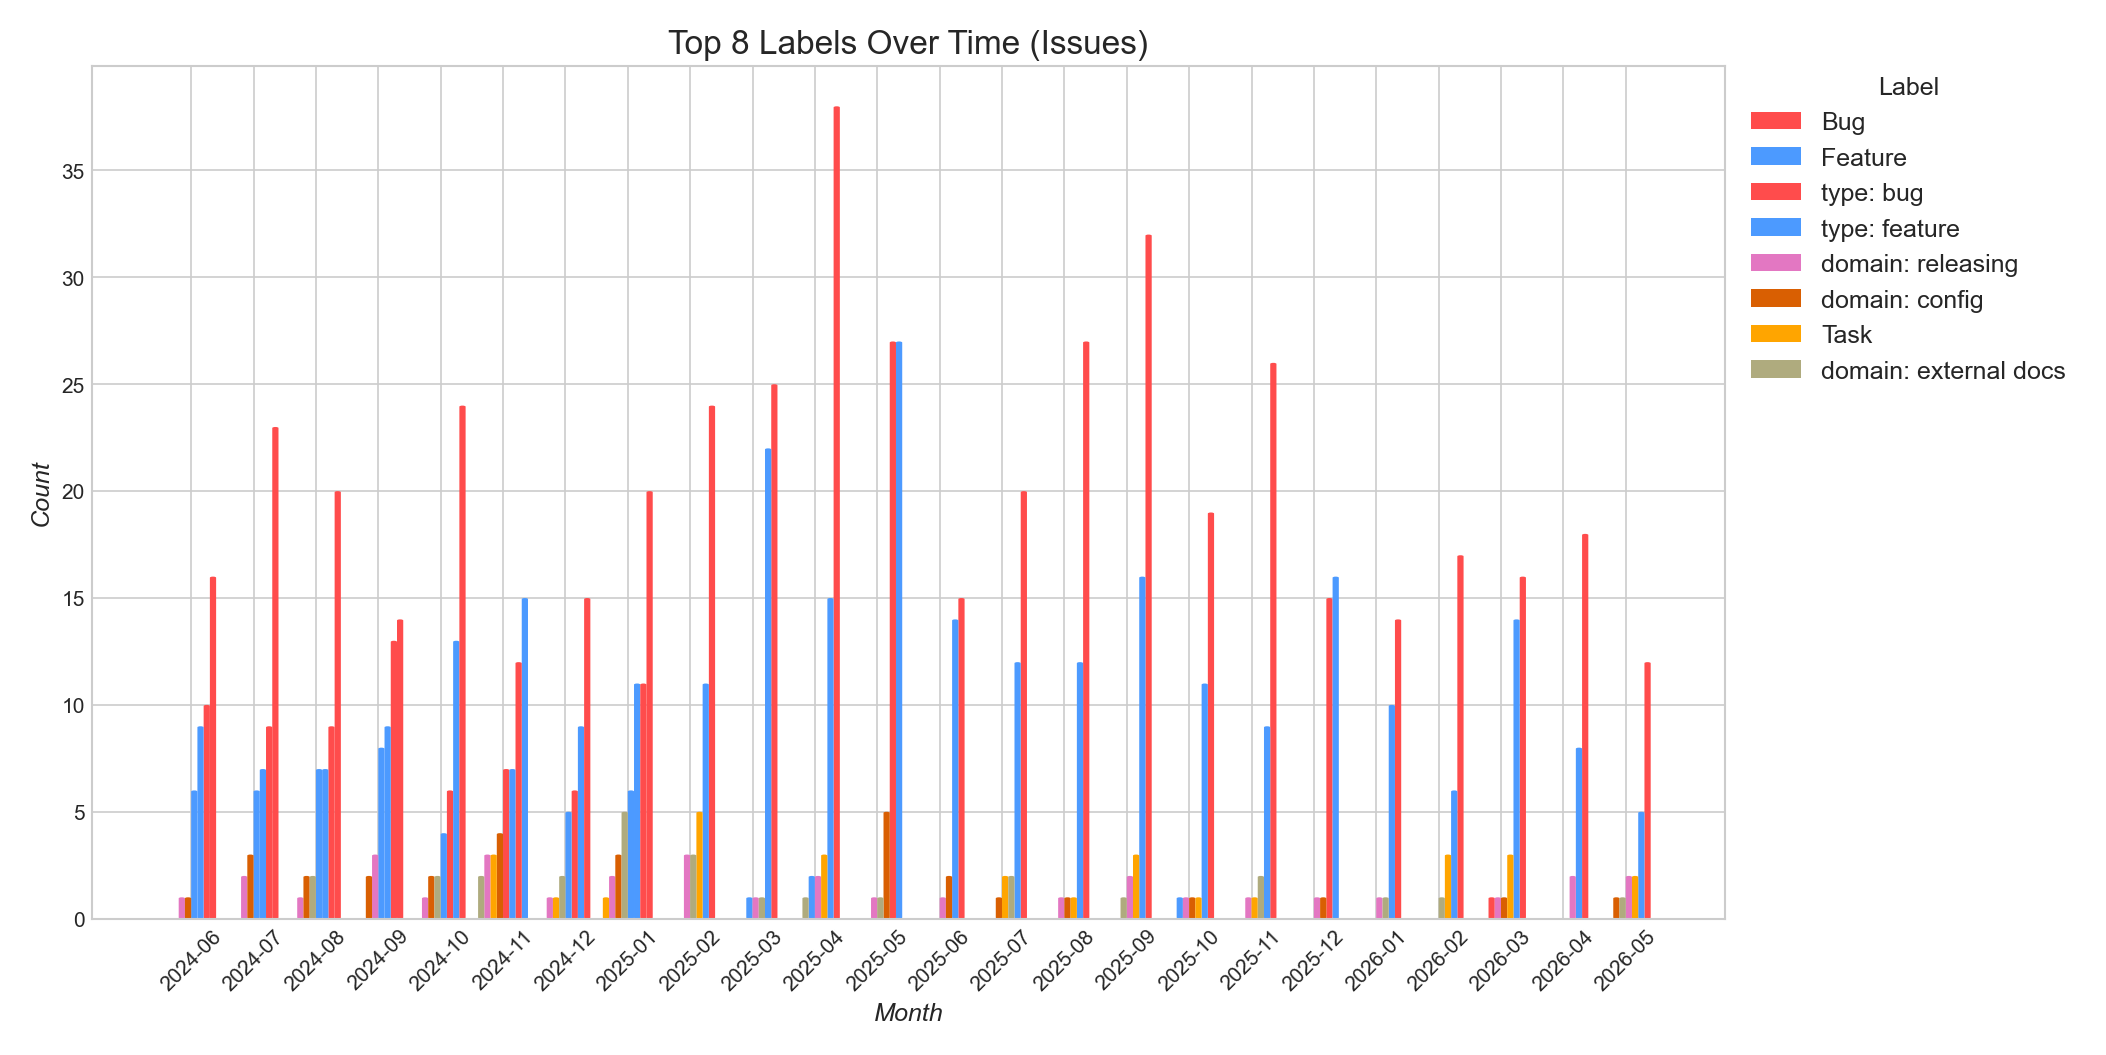
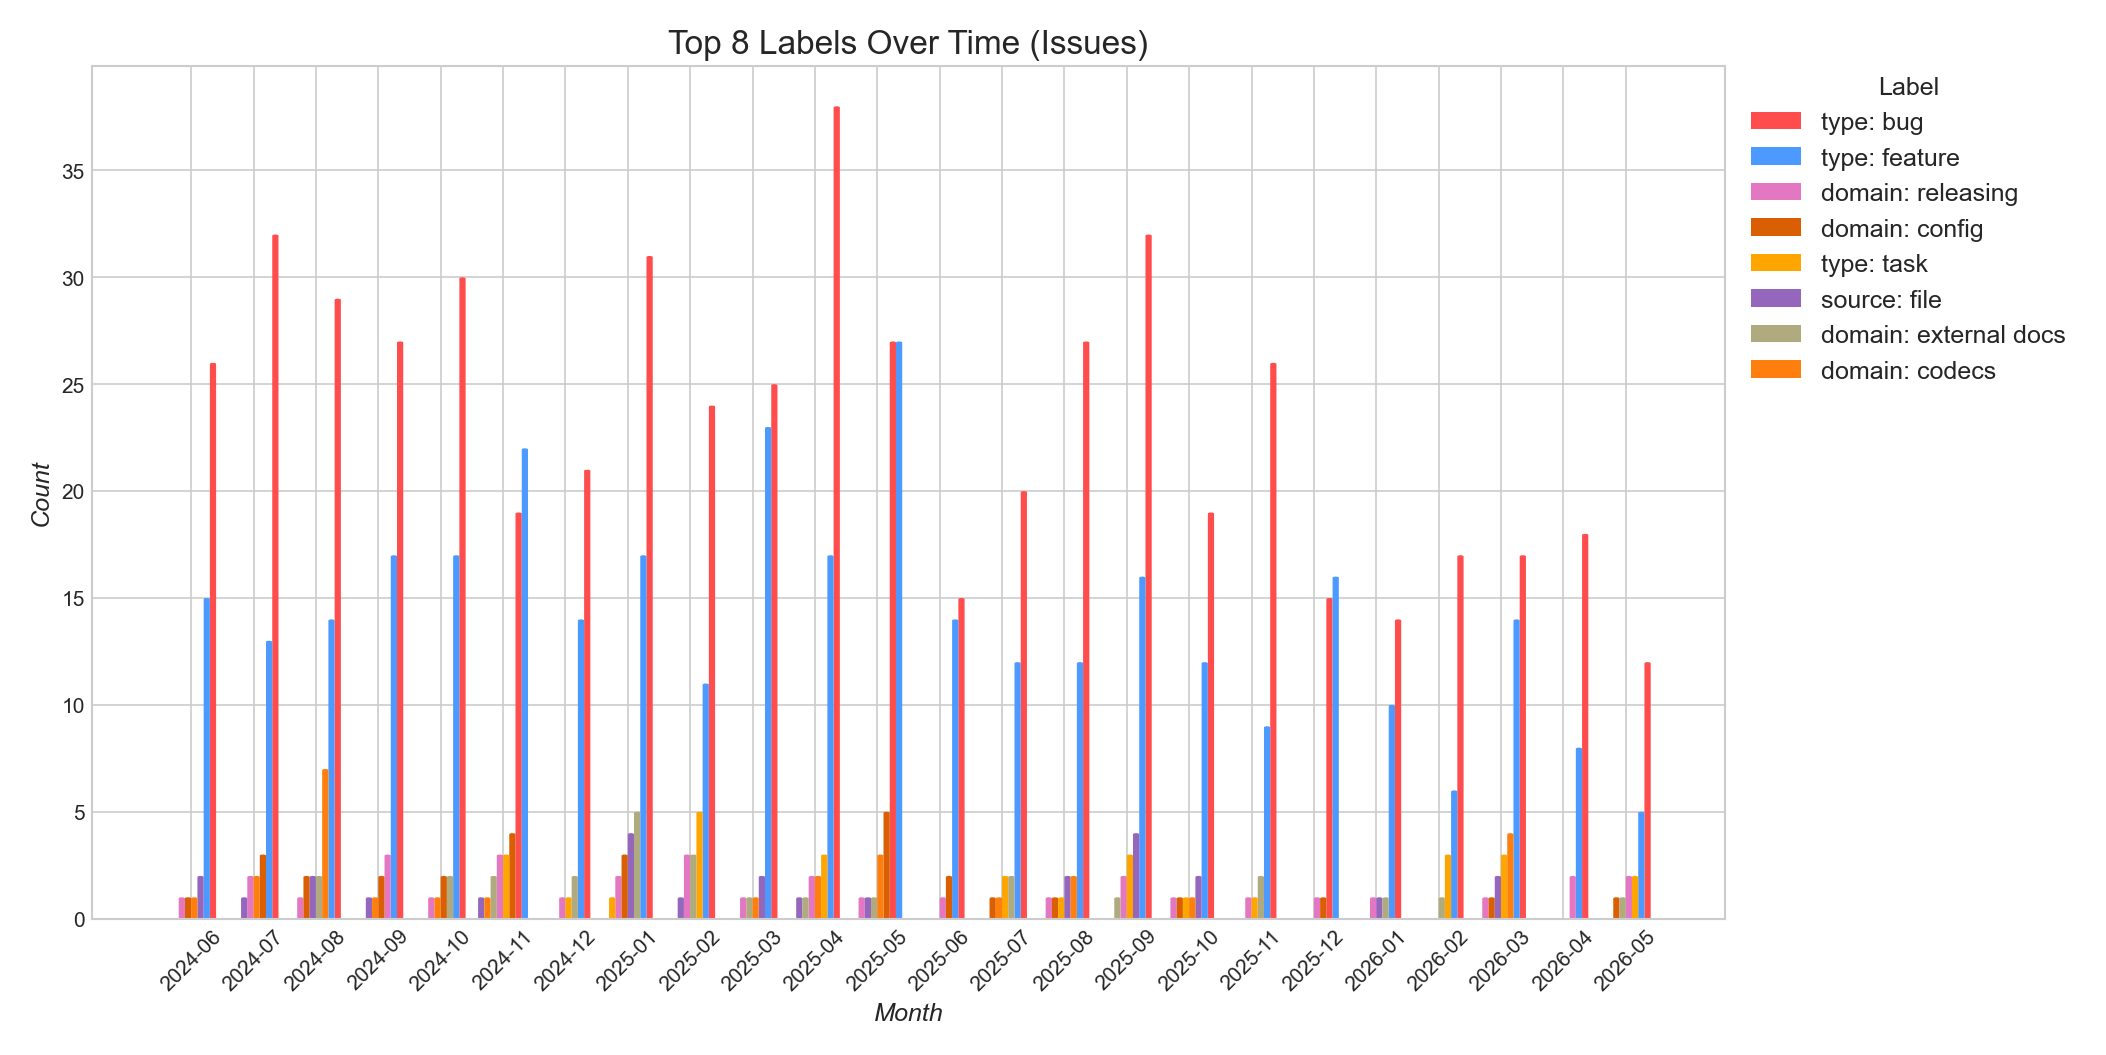
Normalize issue_type values in label breakdown and timeseries queries
GitHub native issue types ("Bug", "Feature", "Task") were appearing as
separate rows alongside their label equivalents ("type: bug" etc.) because
the issue_type UNION ALL path bypassed normalize_label_sql. Apply the same
normalization so they merge into a single canonical row.

diff --git a/src/commands/generate_summaries.rs b/src/commands/generate_summaries.rs
@@ -222,6 +222,7 @@ fn export_label_breakdown(
     } else {
         let draft_and = if table == "pull_requests" { "AND is_draft = 0" } else { "" };
         let norm = normalize_label_sql("labels.name");
+        let norm_it = normalize_label_sql(&format!("{table}.issue_type"));
         format!(
             "SELECT label_name, SUM(count) AS count FROM (
                  SELECT label_name, COUNT(*) AS count FROM (
@@ -242,10 +243,10 @@ fn export_label_breakdown(
                      AND lower(labels.name) != 'type: ' || lower({table}.issue_type)
                  ) GROUP BY label_name
                  UNION ALL
-                 SELECT issue_type AS label_name, COUNT(*) AS count
+                 SELECT {norm_it} AS label_name, COUNT(*) AS count
                  FROM {table}
                  WHERE issue_type IS NOT NULL {draft_and}
-                 GROUP BY issue_type
+                 GROUP BY label_name
              )
              GROUP BY label_name
              ORDER BY count DESC"
@@ -287,6 +288,7 @@ fn export_label_timeseries(
     } else {
         let draft_and = if table == "pull_requests" { "AND is_draft = 0" } else { "" };
         let norm = normalize_label_sql("labels.name");
+        let norm_it = normalize_label_sql(&format!("{table}.issue_type"));
         format!(
             "SELECT month, label_name, SUM(count) AS count FROM (
                  SELECT month, label_name, COUNT(*) AS count FROM (
@@ -307,10 +309,10 @@ fn export_label_timeseries(
                      AND lower(labels.name) != 'type: ' || lower({table}.issue_type)
                  ) GROUP BY month, label_name
                  UNION ALL
-                 SELECT substr(created_at, 1, 7) AS month, issue_type AS label_name, COUNT(*) AS count
+                 SELECT substr(created_at, 1, 7) AS month, {norm_it} AS label_name, COUNT(*) AS count
                  FROM {table}
                  WHERE issue_type IS NOT NULL {draft_and}
-                 GROUP BY month, issue_type
+                 GROUP BY month, label_name
              )
              GROUP BY month, label_name
              ORDER BY month, count DESC"
